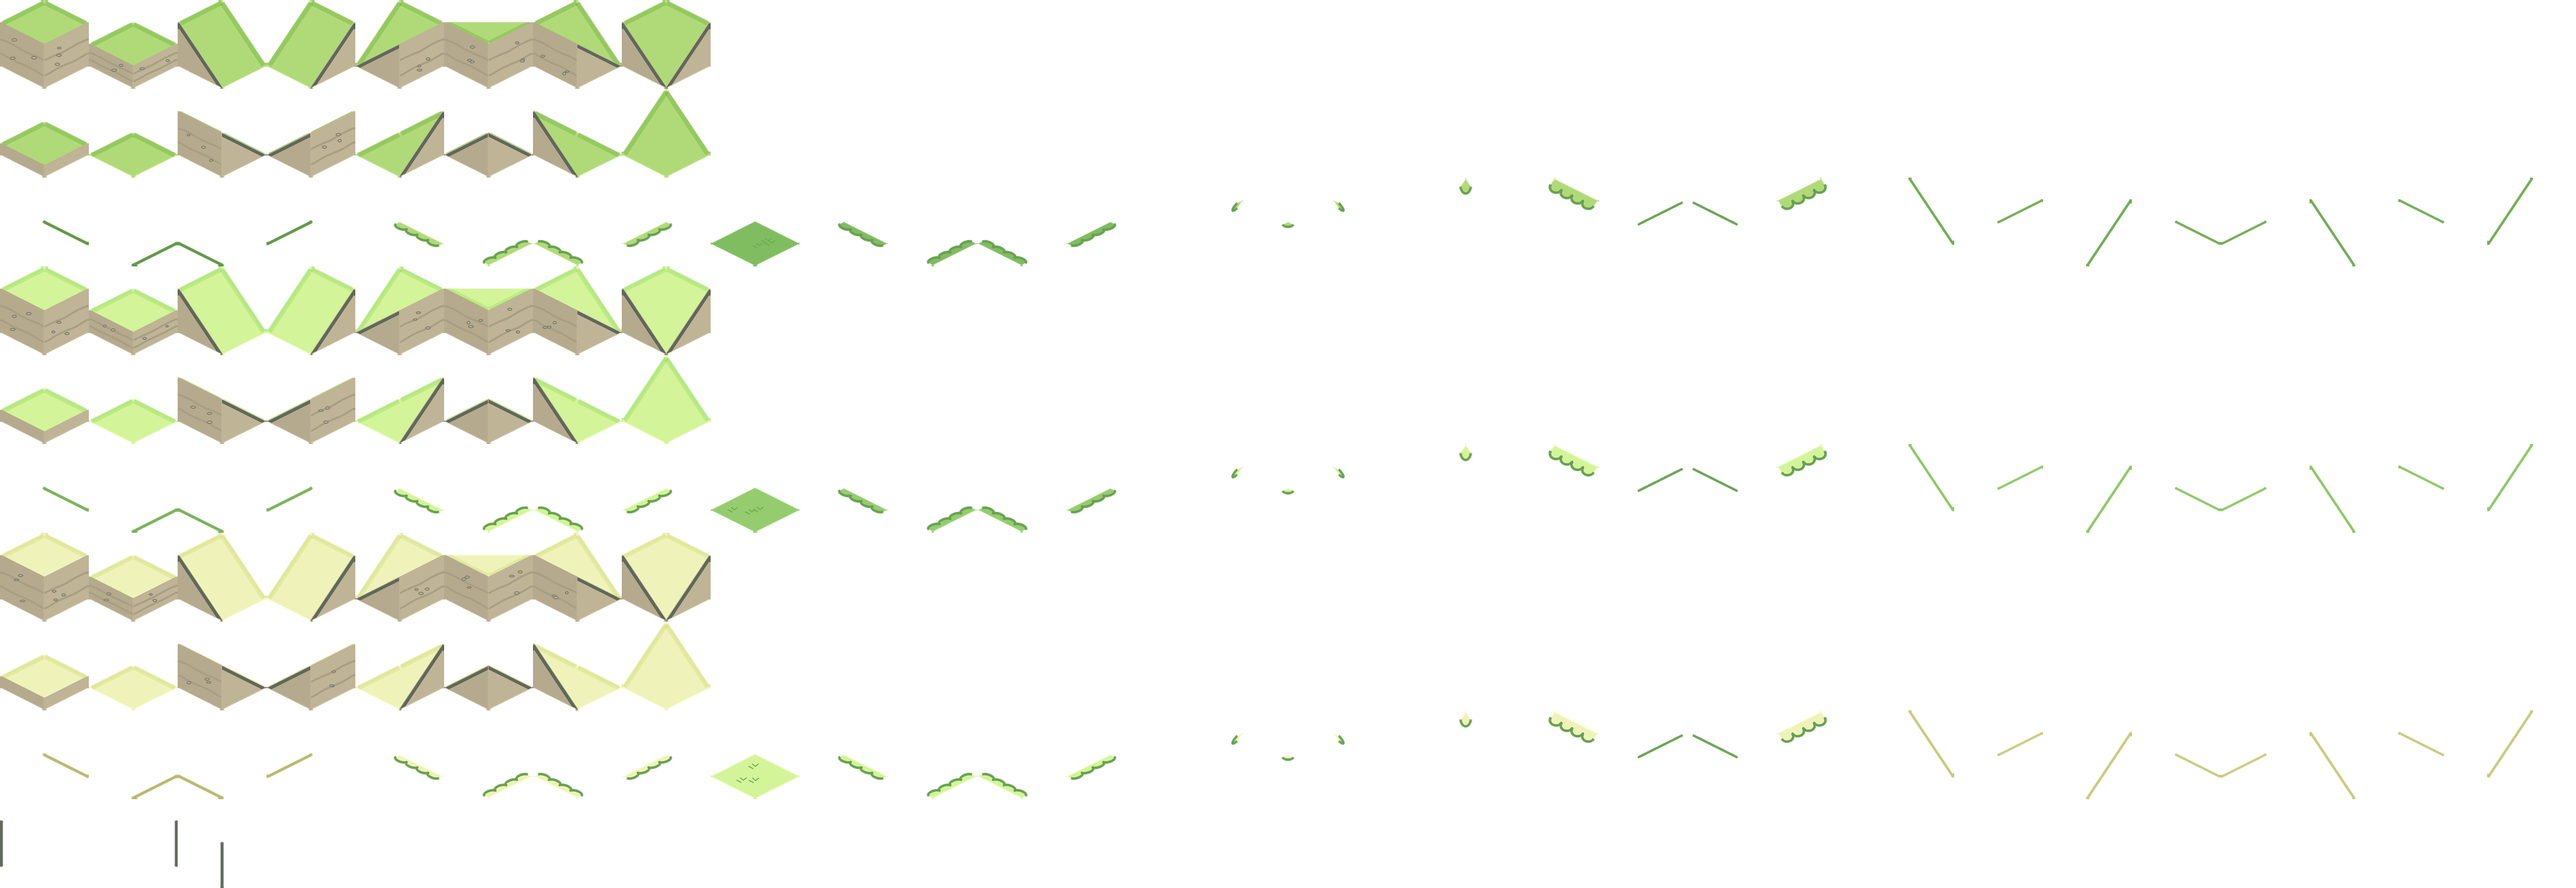
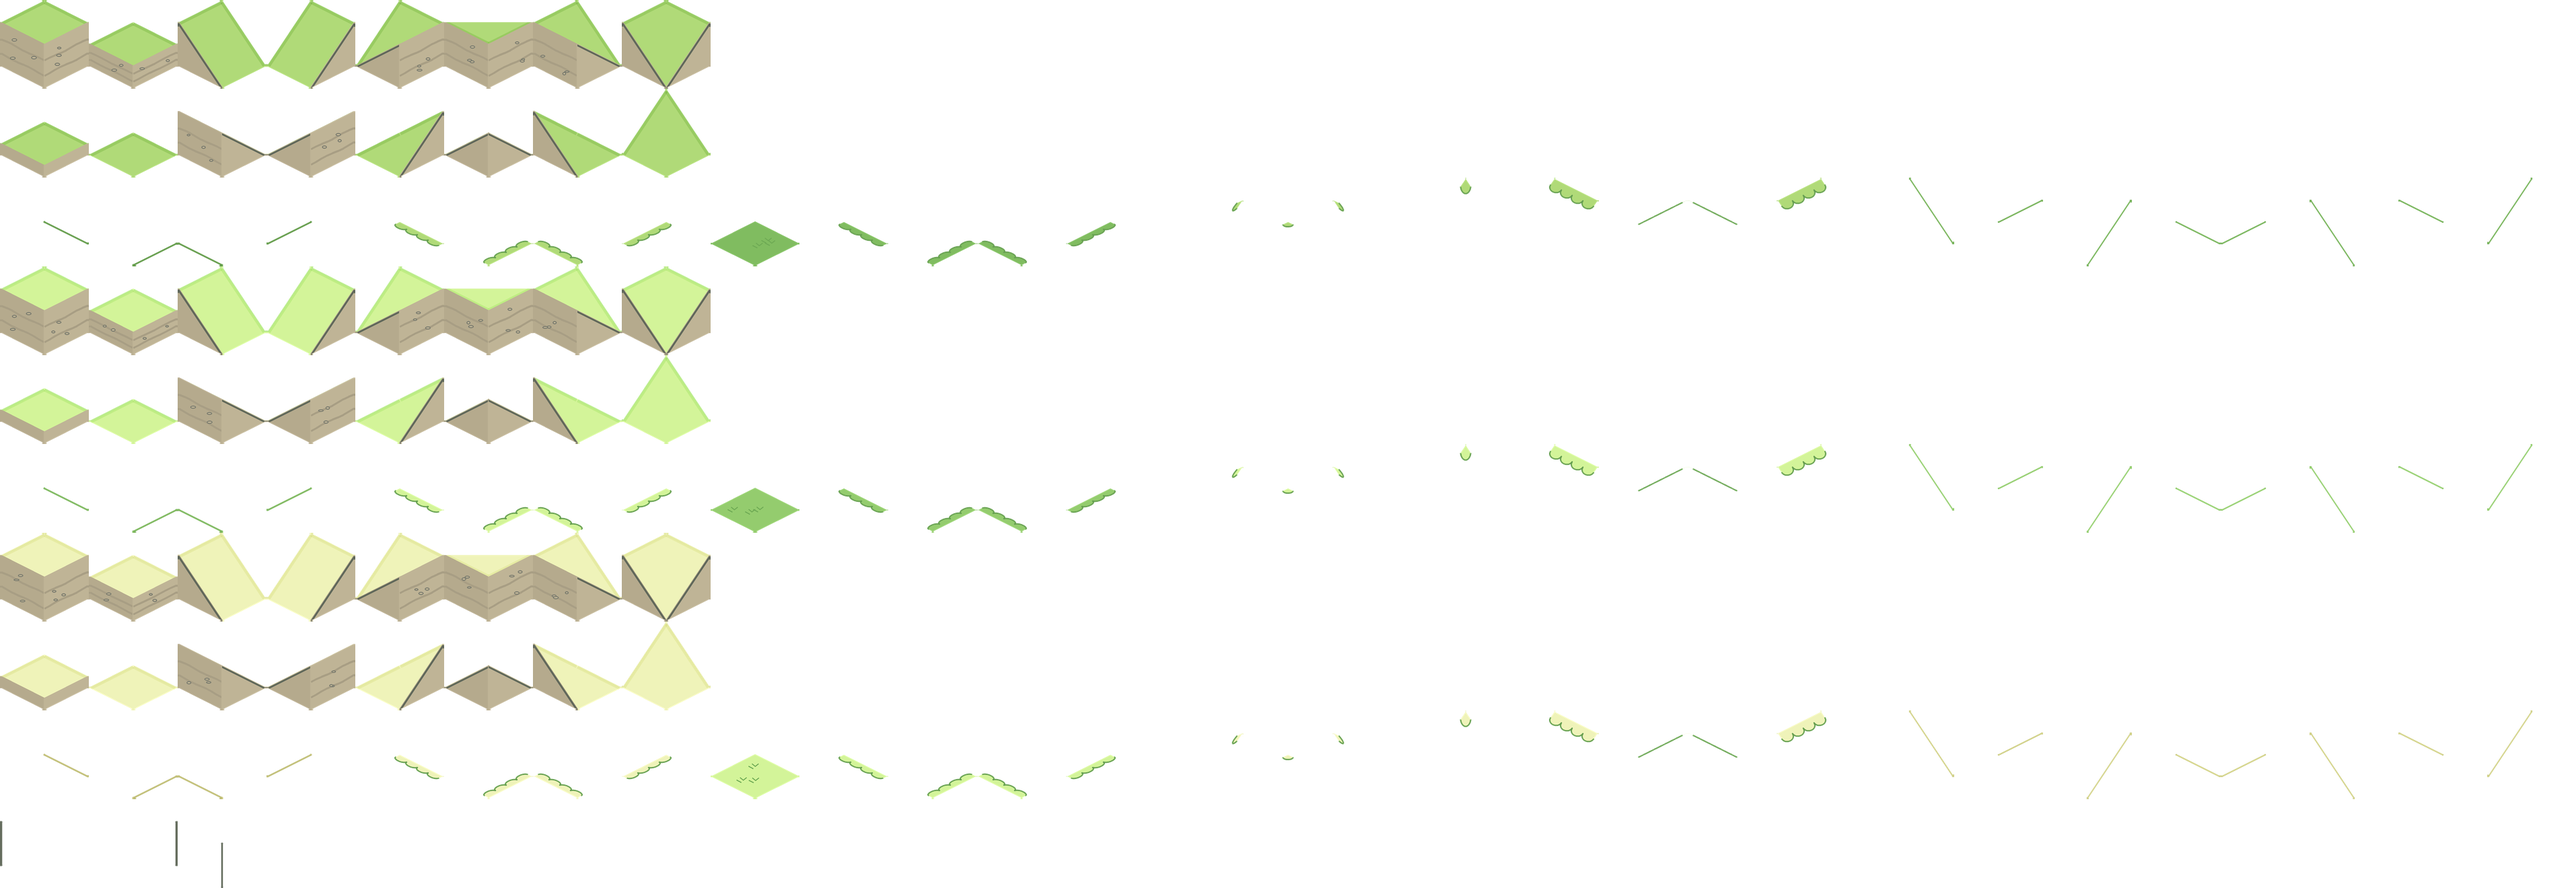
fix(isoworld): toutes les lignes a l'epaisseur des traits des decors
Contours, rives, dentelles, aretes a 2,6 px, grille a 2 px, halo en
proportion : les decors dessines a la main ont des traits de 2 a 3 px a la
meme echelle.

Claude-Session: https://claude.ai/code/session_0181CUemCq7n3GdF1haz2AgB

diff --git a/src/game/isoworld/sheet.ts b/src/game/isoworld/sheet.ts
@@ -130,7 +130,7 @@ export const SHEETS: Readonly<Record<IsoStyle, SheetSpec>> = {
     // The query is a layout revision, bumped whenever the sheet's cells move:
     // browsers cache the file by URL, and a stale sheet sliced with the new
     // offsets shows pieces that no longer exist.
-    url: '/assets/world/iso-smooth-sheet-128.png?layout=11',
+    url: '/assets/world/iso-smooth-sheet-128.png?layout=12',
     cell: 128,
     pad: 2,
     materials: ['moss', 'grass', 'sand'],

diff --git a/tools/gen_iso_smooth_sheet.py b/tools/gen_iso_smooth_sheet.py
@@ -125,13 +125,12 @@ PITCH = CELL + 2 * PAD
 COLS, ROWS = 29, 10
 SS = 4  # supersampling: drawn at 512px per cell, then resolved down
 
-# Line weights, in OUTPUT pixels. Heavier than they look on the sheet: in the
-# reference a cell is ~50px wide with a 2px outline and 1.5px grid, and an
-# island on screen scales these 128px cells down to about that.
-OUTLINE = 4.6   # dark silhouette line
-GRID = 4.0      # the sharp grid line on top faces
-GLOW = 10.0     # the soft dark halo under it, the line's own colour multiplied in
-GLOW_STRENGTH = 0.35
+# Line weights, in OUTPUT pixels, matched to the hand-drawn decorations: their
+# outlines run 2-3px at the same scale (a one-cell base ~130px wide).
+OUTLINE = 2.6   # silhouette, rims, fringes, folds
+GRID = 2.0      # the sharp grid line on top faces
+GLOW = 7.0      # the soft dark halo under it, the line's own colour multiplied in
+GLOW_STRENGTH = 0.3
 STRIPE = 3.0    # earth stripes on cliff faces
 BLEED = 0.8     # how far a filled face overshoots its edge to hide seams
 
